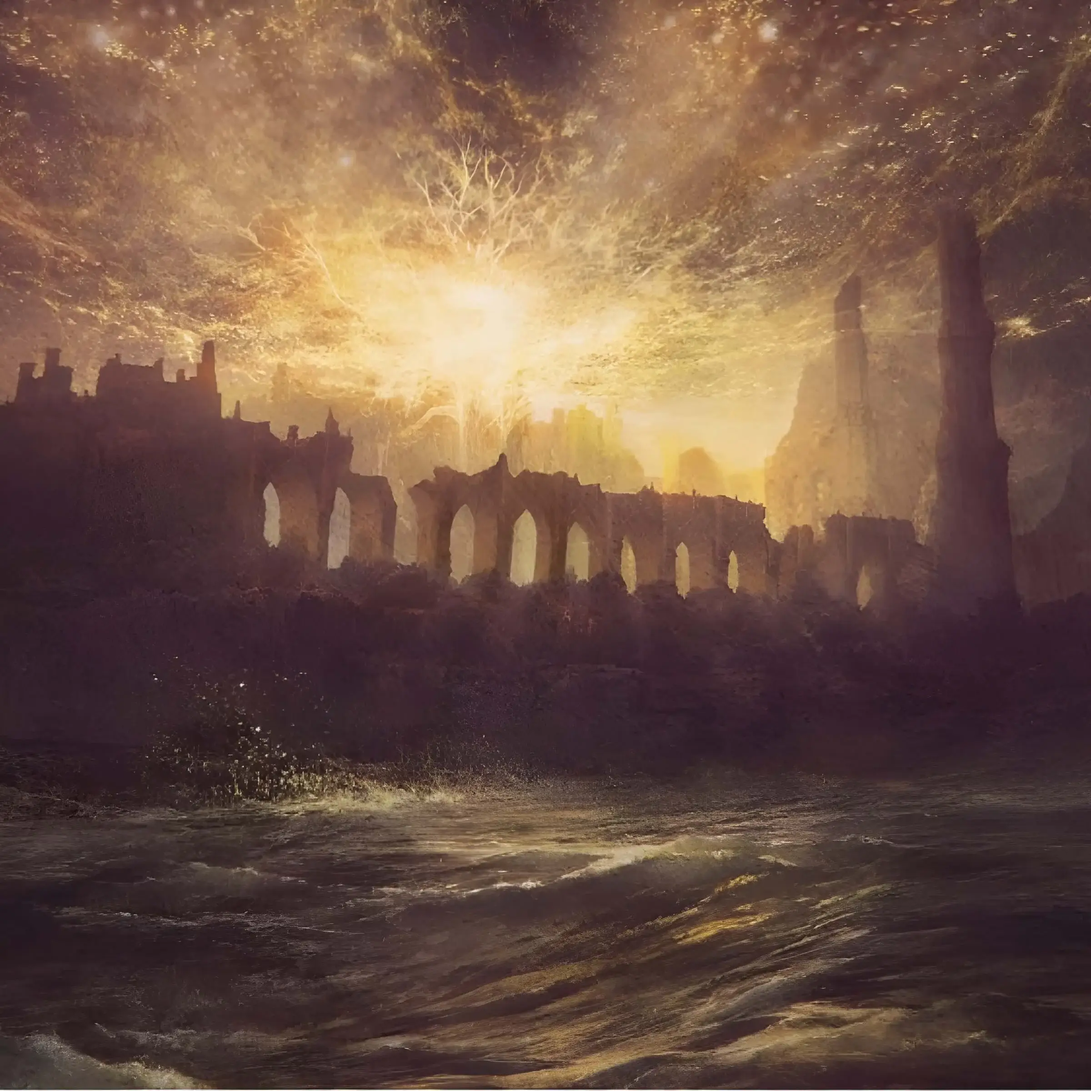
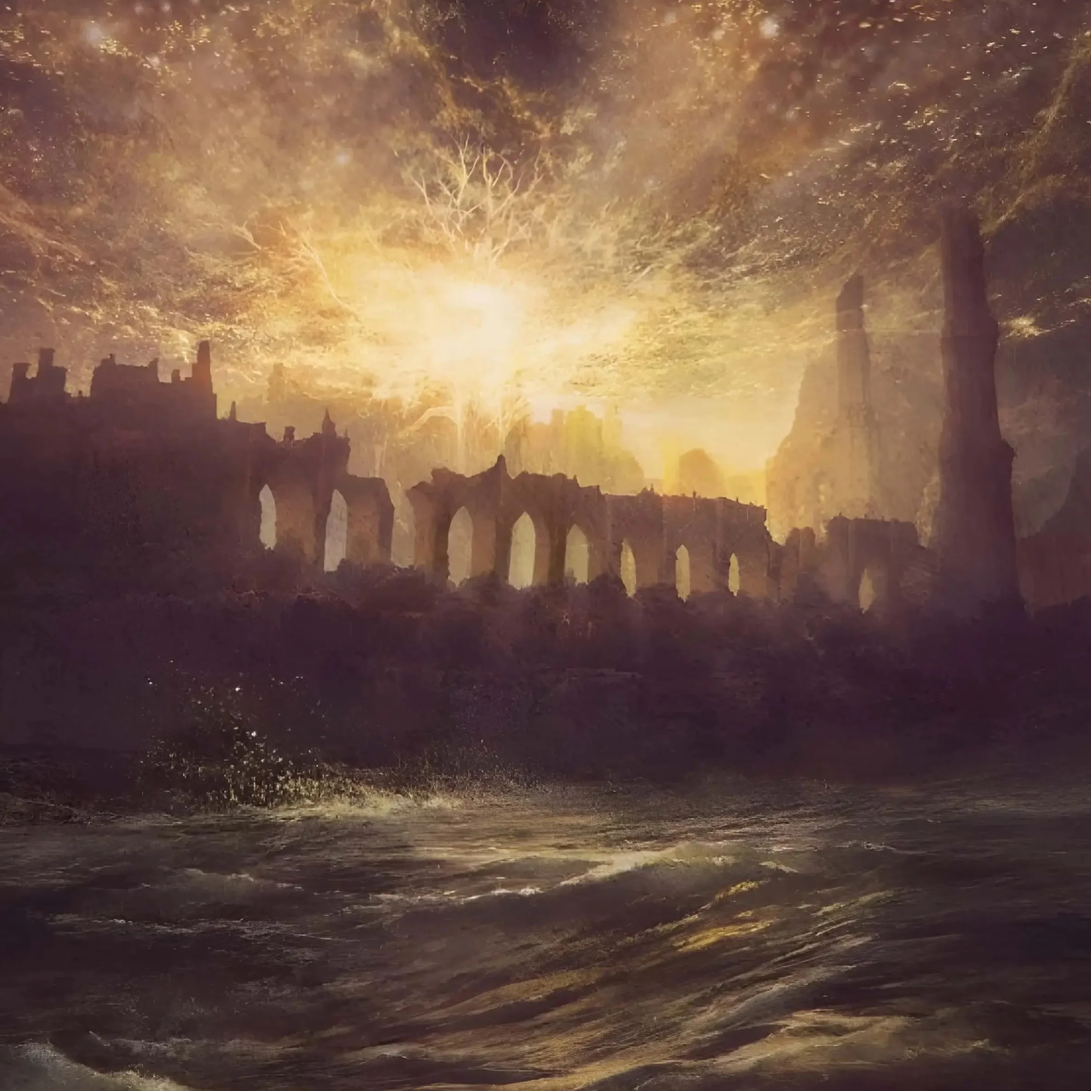
Updated lands between image and seed

diff --git a/backend/seed.js b/backend/seed.js
@@ -158,7 +158,7 @@ const lore = [
     category: "Lore",
     description:
       "The Tarnished are warriors who were once blessed by the Erdtree's grace but had it stripped from them and were exiled from the Lands Between. After the Elden Ring was shattered, grace was extended to the Tarnished once more, beckoning them to return and seek the Great Runes. The player character is one such Tarnished.",
-    image: "/images/lore/lands-between.webp",
+    image: "/images/lore/the-tarnished.webp",
   },
   {
     slug: "the-shattering",
@@ -166,7 +166,7 @@ const lore = [
     category: "Event",
     description:
       "The Shattering was a catastrophic war that followed the death of Godwyn the Golden and the breaking of the Elden Ring. Queen Marika shattered the Elden Ring in grief, and its fragments — the Great Runes — were claimed by her demigod children. The demigods then waged war against each other in a devastating conflict that reshaped the Lands Between.",
-    image: "/images/lore/lands-between.webp",
+    image: "/images/lore/the-shattering.webp",
   },
   {
     slug: "grace-and-the-erdtree",
